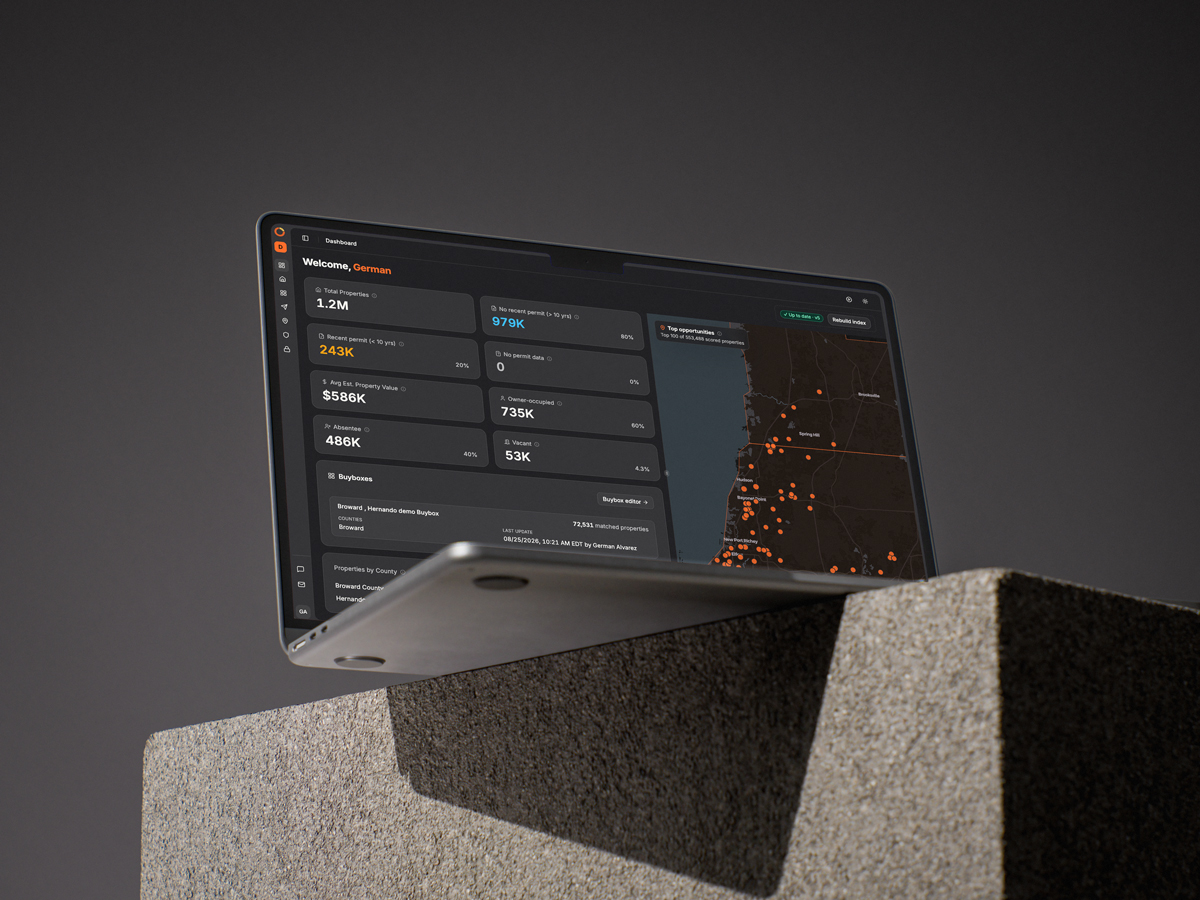
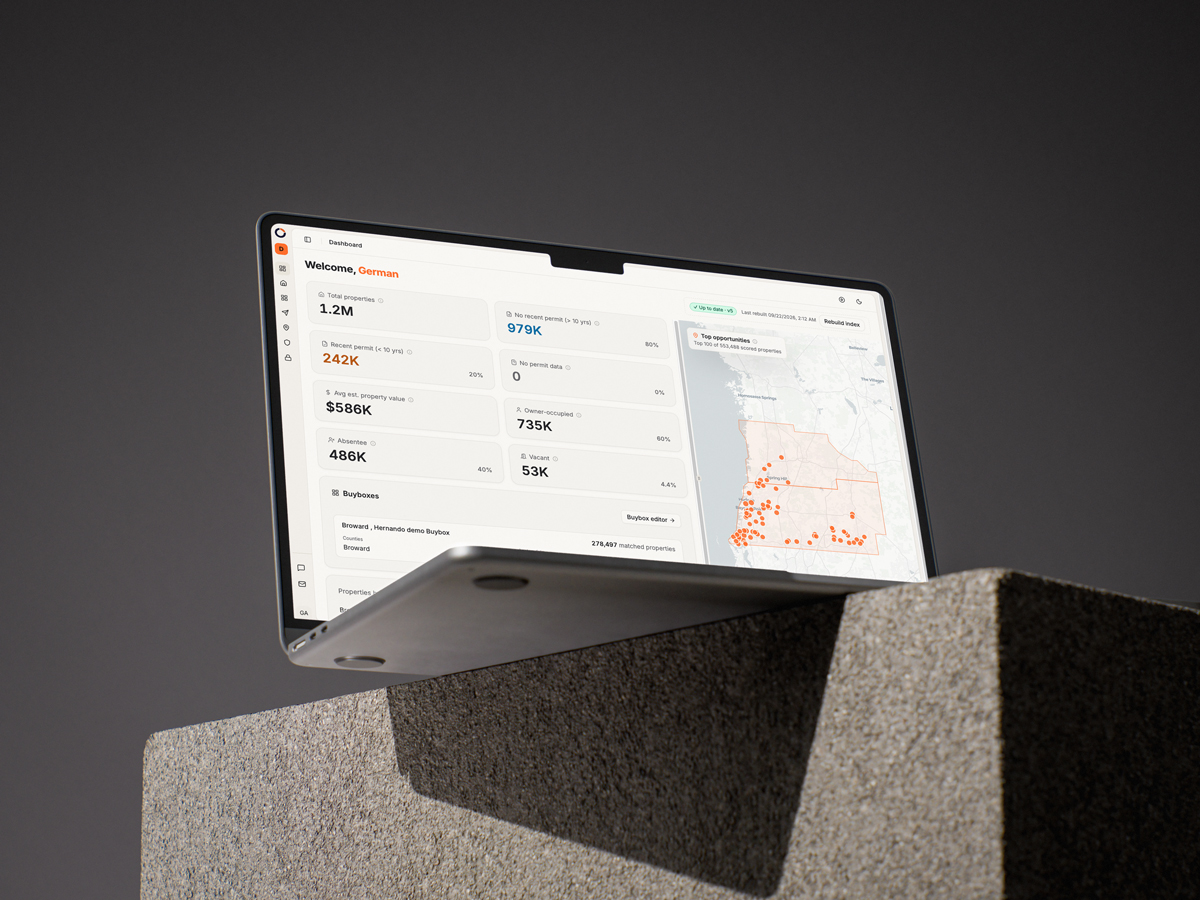
Refresh 8020ROOF imagery and presentation cover

Changed region(s): [[0.2158, 0.2489, 0.7708, 0.7156]]

diff --git a/constants.ts b/constants.ts
@@ -35,14 +35,16 @@ import nowApp03 from './assets/projects/now-app/03.jpg';
 import nowApp04 from './assets/projects/now-app/04.jpg';
 import nowApp05 from './assets/projects/now-app/05.jpg';
 import nowApp06 from './assets/projects/now-app/06.jpg';
-import roof000 from './assets/projects/8020roof/new images/000-cover.jpg';
-import roofDashboard from './assets/projects/8020roof/new images/001.jpg';
-import roofPropertyList from './assets/projects/8020roof/new images/002.jpg';
-import roofPropertyView from './assets/projects/8020roof/new images/003.jpg';
-import roofBuybox from './assets/projects/8020roof/new images/004.jpg';
-import roofBuyboxEdit from './assets/projects/8020roof/new images/005.jpg';
-import roofFulfillment from './assets/projects/8020roof/new images/006.jpg';
-import roofDataHealth from './assets/projects/8020roof/new images/007.jpg';
+import roof000 from './assets/projects/8020roof/new images/000-cover.webp';
+import roofDashboard from './assets/projects/8020roof/new images/001.webp';
+import roofPropertyList from './assets/projects/8020roof/new images/002.webp';
+import roofPropertyView from './assets/projects/8020roof/new images/003.webp';
+import roofBuybox from './assets/projects/8020roof/new images/004.webp';
+import roofBuyboxEdit from './assets/projects/8020roof/new images/005.webp';
+import roofFulfillment from './assets/projects/8020roof/new images/006.webp';
+import roofDoorKnocking from './assets/projects/8020roof/new images/007.webp';
+import roofDataHealthOverview from './assets/projects/8020roof/new images/008.webp';
+import roofDataHealthDetails from './assets/projects/8020roof/new images/009.webp';
 import phoenixCover from './assets/projects/phoenix/cover.jpg';
 import phoenixBrands from './assets/projects/phoenix/01-tokens-brands-panels.png';
 import phoenixSwitcher from './assets/projects/phoenix/05-brand-switcher-iq-dark.png';
@@ -290,8 +292,10 @@ export const PROJECTS: Project[] = [
       { src: roofPropertyView, alt: "8020ROOF property details" },
       { src: roofBuybox, alt: "8020ROOF Buy Box" },
       { src: roofBuyboxEdit, alt: "8020ROOF Buy Box numeric filters" },
-      { src: roofFulfillment, alt: "8020ROOF door-knocking routes" },
-      { src: roofDataHealth, alt: "8020ROOF data health" }
+      { src: roofFulfillment, alt: "8020ROOF monthly fulfillment pipeline and channel output" },
+      { src: roofDoorKnocking, alt: "8020ROOF door knocking routes and QR codes" },
+      { src: roofDataHealthOverview, alt: "8020ROOF data health overview" },
+      { src: roofDataHealthDetails, alt: "8020ROOF data health field coverage details" }
     ]
   },
   {

diff --git a/index.css b/index.css
@@ -377,6 +377,40 @@ html[data-theme='dark'] {
   object-fit: contain;
 }
 
+/* The Roof cover is 4:3. Give it a full-image panel instead of a wide banner. */
+.presentation-cover--roof {
+  display: grid;
+  grid-template-columns: minmax(0, 1.15fr) minmax(0, 0.85fr);
+  align-items: stretch;
+}
+
+.presentation-cover--roof .presentation-cover-image {
+  display: flex;
+  align-items: center;
+  justify-content: center;
+  height: 100%;
+  min-height: 0;
+  background: #302e2e;
+}
+
+html[data-theme='light'] .presentation-cover--roof .presentation-cover-image {
+  background: #302e2e;
+}
+
+.presentation-cover--roof .presentation-cover-photo {
+  height: auto;
+  max-height: 100%;
+}
+
+.presentation-cover--roof .presentation-cover-copy {
+  align-self: center;
+  padding: clamp(28px, 3.2vw, 52px);
+}
+
+.presentation-cover--roof .presentation-cover-copy h1 {
+  font-size: clamp(36px, 3.6vw, 54px);
+}
+
 .presentation-cover-copy {
   width: 100%;
   margin-block: auto;
@@ -748,6 +782,25 @@ html[data-theme='dark'] {
 }
 
 @media (max-width: 900px) {
+  .presentation-cover--roof {
+    display: flex;
+    min-height: 0;
+  }
+
+  .presentation-cover--roof .presentation-cover-image {
+    height: auto;
+    aspect-ratio: 4 / 3;
+  }
+
+  .presentation-cover--roof .presentation-cover-photo {
+    width: 100%;
+    height: 100%;
+  }
+
+  .presentation-cover--roof .presentation-cover-copy {
+    margin-block: 0;
+  }
+
   .presentation-slide-body {
     align-items: flex-start;
   }
@@ -854,6 +907,10 @@ html[data-theme='dark'] {
 
   .presentation-cover-image {
     height: clamp(220px, 36vh, 360px);
+  }
+
+  .presentation-cover--roof .presentation-cover-copy {
+    padding: 28px 23px;
   }
 
   .presentation-cover-copy {

diff --git a/components/ProjectPresentation.tsx b/components/ProjectPresentation.tsx
@@ -87,7 +87,7 @@ const buildSlides = (project: Project, story: PresentationStory): Slide[] => {
     {
       title: coverTitle,
       render: () => (
-        <section className="presentation-cover">
+        <section className={`presentation-cover${project.id === '8020-roof' ? ' presentation-cover--roof' : ''}`}>
           {coverImage ? (
             <LoadingImage
               src={coverImage.src}
